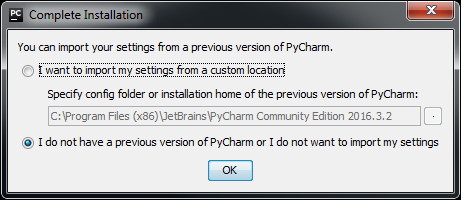
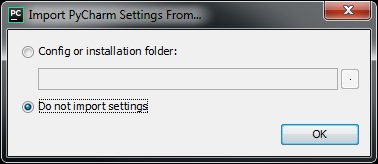
update developers_guide.rst for latest PyCharm and Miniconda

diff --git a/docs/developers_guide.rst b/docs/developers_guide.rst
@@ -21,19 +21,17 @@ This section uses the `MSL-LoadLib repository`_ as an example of a repository th
 to clone_ and import into `PyCharm <Community Edition of PyCharm_>`_.
 
 The following instructions are written for a Windows x64 operating system. To install the same software on
-64-bit `Ubuntu <https://www.ubuntu.com/>`_ run:
+64-bit `Ubuntu <https://www.ubuntu.com/>`_ run
 
-.. code-block:: bash
+.. code-block:: console
 
-   #!/bin/bash
-   sudo add-apt-repository ppa:ubuntu-desktop/ubuntu-make -y
    sudo apt update
-   sudo apt install git default-jre ubuntu-make -y
-   umake ide pycharm
-   wget https://repo.continuum.io/miniconda/Miniconda3-latest-Linux-x86_64.sh
+   sudo apt install git
+   sudo snap install pycharm-community --classic
+   wget https://repo.anaconda.com/miniconda/Miniconda3-latest-Linux-x86_64.sh
    bash Miniconda*
 
-and answer the questions that you are asked. After running this bash script you can follow the appropriate
+and answer the questions that you are asked. After running these commands you can follow the appropriate
 set-up steps below.
 
 .. attention::
@@ -43,34 +41,39 @@ set-up steps below.
 
 1. Download a 64-bit version of Miniconda_.
 
-2. Install Miniconda_ in a folder of your choice, but it is recommended to **Add** and **Register** Anaconda.
+2. Install Miniconda_. It is recommended to **Register** Anaconda but not to **Add** it to your PATH.
 
    .. image:: _static/anaconda_setup.png
 
-3. Open a `Windows Command Prompt`_ and update all Miniconda_ packages:
+3. Open the Anaconda Command Prompt
+
+   .. image:: _static/anaconda_prompt.png
+
+   and then enter the following command to update all Miniconda_ packages:
 
    .. code-block:: console
 
-      conda update --all --yes
+      conda update --all
 
 4. It is usually best to create a new `virtual environment`_ for each Python project that you are working on to avoid
    possible conflicts between the packages that are required for each Python project or to test the code against
    different versions of Python (i.e., it solves the *Project X depends on version 1.x but Project Y depends on*
    *version 4.x* dilemma).
 
-   Create a new ``msl`` `virtual environment`_ (you can pick another name, ``msl`` is just an example
-   of a name) and install the latest Python interpreter in this environment:
+   In the Anaconda Command Prompt create a new ``py37`` `virtual environment`_ (you can pick another name, ``py37``
+   is just an example of a name) and install the Python 3.7 interpreter in this environment *(NOTE: You can also*
+   *create conda environment's from within PyCharm if you are not comfortable with the command line, see Step 9)*
 
    .. code-block:: console
 
-      conda create --name msl python --yes
+      conda create --name py37 python=3.7
 
-   You may also want to create another `virtual environment`_ so that you can test the code against another Python
-   version. For example, here is an example of how to create a Python 2.7 `virtual environment`_ named ``msl27``:
+   You may also want to create another `virtual environment`_ so that you can run the code against another Python
+   version. For example, here is an example of how to create a Python 2.7 `virtual environment`_ named ``py27``:
 
    .. code-block:: console
 
-      conda create --name msl27 python=2.7 --yes
+      conda create --name py27 python=2.7
 
 5. Create a GitHub_ account *(if you do not already have one)*.
 
@@ -78,57 +81,67 @@ set-up steps below.
 
 7. Download and install the `Community Edition of PyCharm`_ to use as an IDE_. This IDE_ is free to use and it provides
    a lot of the features that one expects from an IDE_. When asked to **Create associations** check the **.py** checkbox
-   *(you can accept the default settings for everything else that you are asked during the installation)*.
+   and you can also create a shortcut on the desktop *(you can accept the default settings for everything else that*
+   *you are asked during the installation)*
 
    .. image:: _static/pycharm_installation1.png
 
 8. Run PyCharm and perform the following:
 
-   a) Do not import settings from a previous version of PyCharm *(unless you have a settings file that you want to use)*.
+   a) Import settings from a previous version of PyCharm *(if available)*
 
       .. image:: _static/pycharm_installation2.png
 
-   b) You can keep the default editor theme *(or select the one that you like; note: you can change the theme later)*.
+   b) Select the default editor theme *(you can change the theme later)* and click
+      **Skip Remaining and Set Defaults**
     
       .. image:: _static/pycharm_installation3.png
 
-   c) Select the **GitHub** option from **Check out from Version Control**.
+   c) Select the **Git** option from **Check out from Version Control**
 
       .. image:: _static/pycharm_github_checkout.png
 
-   d) Enter your GitHub_ account information *(see step 5 above)* and click **Login**.
+   d) Click the **Log in to Github...** button
 
-      .. image:: _static/pycharm_github_login.png
+      .. image:: _static/pycharm_github_login1.png
 
-   e) Clone_ the `MSL-LoadLib repository`_. You will have to change the path of the **Parent Directory**
-      and you can choose the **Directory Name** to be any text that you want.
+      and then enter your GitHub_ account information *(see Step 5 above)* and click **Log In**
+
+      .. image:: _static/pycharm_github_login2.png
+
+   e) Clone_ the `MSL-LoadLib repository`_. Specify the **Directory** where you want to clone
+      the repository *(NOTE: the* `MSL-LoadLib repository`_ *will only appear if you are part of the*
+      MSLNZ_ *organisation on GitHub. A list of your own repositories will be available.)*
 
       .. image:: _static/pycharm_github_clone.png
 
-   f) Open the `MSL-LoadLib repository`_ in PyCharm.
+   f) Open the `MSL-LoadLib repository`_ in PyCharm
 
       .. image:: _static/pycharm_github_open.png
 
-9. Specify the Python executable in the ``msl`` `virtual environment`_ as the **Project Interpreter**.
+9. Add the ``py37`` `virtual environment`_ that was created in Step 4 as the **Project Interpreter**
+   *(NOTE: you can also create a new conda environment in Step 9d)*
    
-   a) Press ``CTRL+ALT+S`` to open the **Settings** window.
+   a) Press ``CTRL+ALT+S`` to open the **Settings** window
    
-   b) Go to **Project Interpreter** and click on the *gear* button in the top-right corner.
+   b) Go to **Project Interpreter** and click on the *gear* button in the top-right corner
 
       .. image:: _static/pycharm_interpreter1.png
    
-   c) Select **Add Local**
+   c) Select **Add**
     
       .. image:: _static/pycharm_interpreter2.png
       
-   d) Navigate to the folder where the ``msl`` `virtual environment`_ is located, select the **python.exe** file
-      and then click **OK**.
+   d) Select **Conda Environment** :math:`\rightarrow` **Existing environment** and select the
+      ``py37`` `virtual environment`_ that was created in Step 4 and then click **OK**
+      *You can also create a new environment if you want*
    
       .. image:: _static/pycharm_interpreter3.png
 
-   e) Click **Apply** then **OK**.
+   e) Click **Apply** then **OK**
 
-   f) If you created a ``msl27`` `virtual environment`_ then repeat *step (d)* to add the Python 2.7 interpreter.
+   f) If you created a ``py27`` `virtual environment`_ then repeat Steps 9b-9d to add the
+      Python 2.7 environment
 
 10. The **MSL-LoadLib** project is now shown in the **Project** window and you can begin to modify the code.
 
@@ -145,13 +158,12 @@ on how to use git.
 
 1. Make sure that the git Branch_ you are working on is up to date by performing a Pull_.
 
-   a) Click on the :abbr:`VCS (Version Control Software)` *downward-arrow button* in the top-right corner to
-      update the project.
+   a) Click on the blue, downward-arrow button in the top-right corner to update the project
 
       .. image:: _static/pycharm_github_pull_1.png
 
    b) Select the options for how you want to update the project *(the default options are usually okay)* and click
-      **OK**.
+      **OK**
 
       .. image:: _static/pycharm_github_pull_2.png
 
@@ -160,8 +172,7 @@ on how to use git.
 3. When you are happy with the changes that you have made you should Push_ the changes to the
    `MSL-LoadLib repository`_.
 
-   a) Click on the :abbr:`VCS (Version Control Software)` *upward-arrow button* in the top-right corner to
-      commit the changes.
+   a) Click on the green, check-mark button in the top-right corner to commit the changes
    
       .. image:: _static/pycharm_github_commit1.png
 
@@ -195,7 +206,8 @@ to the code base it will be easier to understand if there is a coherent structur
 * Docstrings must be provided for all public classes, methods and functions.
 * For the docstrings use the `NumPy Style`_ format.
 
-  * Press ``CTRL+ALT+S`` to open the **Settings** window and navigate to **Tools > Python Integrated Tools** to
+  * Press ``CTRL+ALT+S`` to open the **Settings** window and navigate to **Tools**
+    :math:`\rightarrow` **Python Integrated Tools** to
     select the **NumPy** docstring format and then click **Apply** then **OK**.
 
     .. image:: _static/pycharm_numpy_style.png
@@ -205,8 +217,7 @@ to the code base it will be easier to understand if there is a coherent structur
   which are filtered and you can also easily redirect all messages, for example, to a GUI widget or to a file. The
   `django project`_ has a nice overview on how to use Python's builtin logging module.
 
-.. _Miniconda: https://conda.pydata.org/miniconda.html
-.. _Windows Command Prompt: https://www.computerhope.com/issues/chusedos.htm
+.. _Miniconda: https://docs.conda.io/en/latest/miniconda.html
 .. _virtual environment: https://conda.io/docs/user-guide/tasks/manage-environments.html
 .. _MSL-LoadLib repository: https://github.com/MSLNZ/msl-loadlib
 .. _git: https://git-scm.com/downloads
@@ -215,12 +226,6 @@ to the code base it will be easier to understand if there is a coherent structur
 .. _version control system: https://en.wikipedia.org/wiki/Version_control
 .. _Community Edition of PyCharm: https://www.jetbrains.com/pycharm/download/#section=windows
 .. _IDE: https://en.wikipedia.org/wiki/Integrated_development_environment
-.. _pytest: https://doc.pytest.org/en/latest/
-.. _sphinx: https://www.sphinx-doc.org/en/latest/#
-.. _sphinx-apidoc: https://www.sphinx-doc.org/en/stable/man/sphinx-apidoc.html
-.. _wheel: https://pythonwheels.com/
-.. _coverage: https://coverage.readthedocs.io/en/latest/index.html
-.. _Google Style: https://www.sphinx-doc.org/en/latest/ext/example_google.html
 .. _NumPy Style: https://numpydoc.readthedocs.io/en/latest/format.html#docstring-standard
 .. _logging levels: https://docs.python.org/3/library/logging.html#logging-levels
 .. _clone: https://git-scm.com/docs/git-clone
@@ -228,6 +233,7 @@ to the code base it will be easier to understand if there is a coherent structur
 .. _Pull: https://git-scm.com/docs/git-pull
 .. _Push: https://git-scm.com/docs/git-push
 .. _django project: https://docs.djangoproject.com/en/1.10/topics/logging/
+.. _MSLNZ: https://github.com/MSLNZ
 
 .. [#f1] Software is identified in this guide in order to specify the installation and configuration procedure
          adequately. Such identification is not intended to imply recommendation or endorsement by the Measurement
